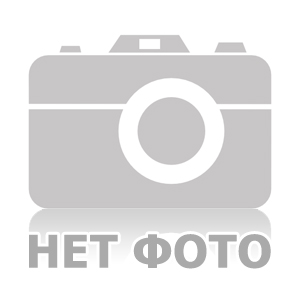
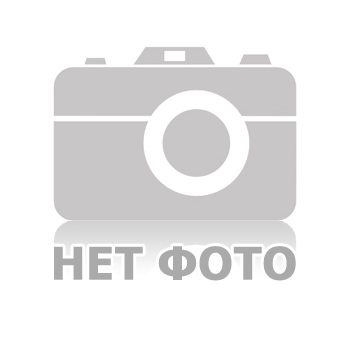
fix catalog images view

Changed region(s): [[0.09, 0.09, 0.93, 0.9], [0.48, 0.3, 0.57, 0.36], [0.45, 0.36, 0.48, 0.39]]

diff --git a/resources/stylesheets/children-catalog.css b/resources/stylesheets/children-catalog.css
@@ -1,0 +1,12 @@
+.catalog-container .image-container {
+    position: relative;
+    display: block;
+    margin: 0 auto;
+    width: 140px;
+    height: 140px;
+}
+
+.catalog-container .image {
+    max-width: 140px;
+    max-height: 140px;
+}

diff --git a/application/views/_template/children-catalog.php b/application/views/_template/children-catalog.php
@@ -1,13 +1,25 @@
+<?php $ph->include_css('children-catalog.css') ?>
+
 <div class="container marketing">
     <div class="row">
       <?php  foreach($nearestChildren as $catalog) { ?>
-    <div class="col-lg-4">
-        <?php $ph->image_link('catalog/'.$catalog['id'].'.jpeg', '/catalog/' . $catalog['url'], [
-            'class' => 'img-circle',
-            'data-src' => 'holder.js/140x140',
-            'style' => 'max-width: 140px; max-height: 140px;'
-        ])
-            ->link_open('/catalog/' . $catalog['url'])
+    <div class="col-lg-4 catalog-container">
+        <?php
+        $ph->link_open('/catalog/' . $catalog['url'], ['class' => 'image-container']);
+            if (\application\models\CatalogModel::getInstance()->imageExist($catalog['id'])) {
+                $ph->image('catalog/'.$catalog['id'].'.jpeg', [
+                    'class' => 'img-circle image',
+                    'data-src' => 'holder.js/140x140'
+                ]);
+            } else {
+                $ph->image('no-photo.jpg', [
+                    'class' => 'img-circle image',
+                    'data-src' => 'holder.js/140x140'
+                ]);
+            }
+            $ph->link_close();
+
+            $ph->link_open('/catalog/' . $catalog['url'])
             ->tag('h4', $catalog['name'], ['class' => 'catalog-name'])
             ->tag_close('a');
         ?>

diff --git a/application/views/catalog/show.php b/application/views/catalog/show.php
@@ -1,6 +1,6 @@
 <?php $ph->include_css('catalog.css')?>
 <?php $ph->include_css('logo.css')?>
-<?php $ph->include_css('productList.css')?>
+<?php $ph->include_css('product-list.css')?>
 
 
 <ol class="breadcrumb">
@@ -19,12 +19,12 @@
 
 <?php
     if (!empty($nearestChildren)) {
-        $this->renderTemplate('childrenCatalog');
+        $this->renderTemplate('children-catalog');
     }
 ?>
 
 <?php
     if (!empty($products)) {
-        $this->renderTemplate('productList');
+        $this->renderTemplate('product-list');
     }
 ?>

diff --git a/application/views/_layout/index.php b/application/views/_layout/index.php
@@ -81,7 +81,7 @@
     <a class="right carousel-control" href="http://bootstrap-3.ru/examples/carousel/#myCarousel" data-slide="next"><span class="glyphicon glyphicon-chevron-right"></span></a>
 </div><!-- /.carousel -->
 
-<?php $this->renderTemplate('childrenCatalog') ?>
+<?php $this->renderTemplate('children-catalog') ?>
 
 <br>
 
